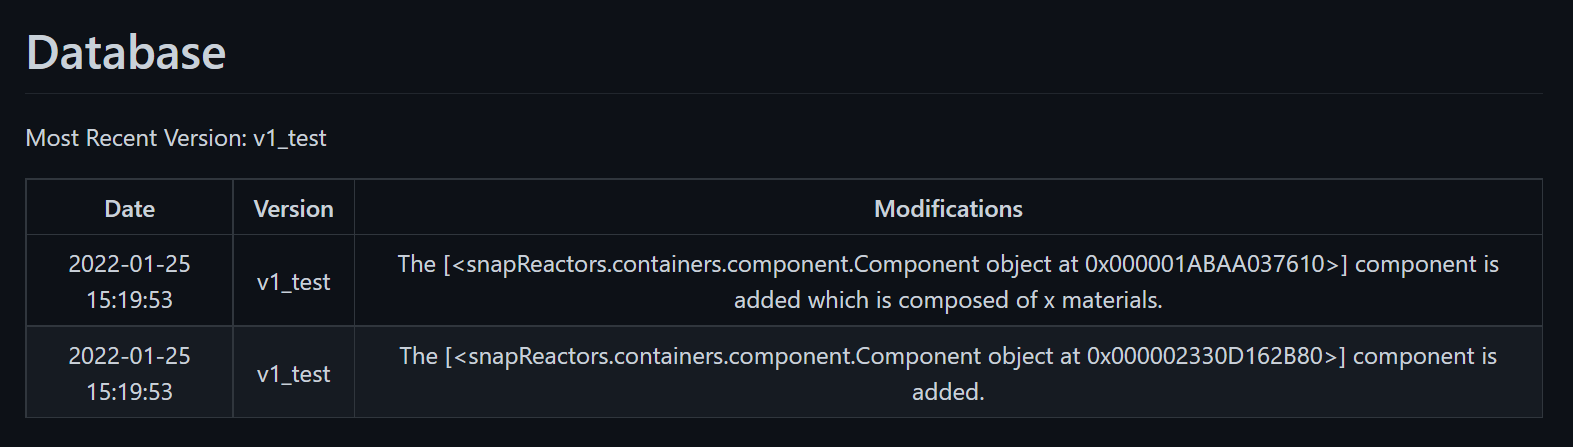
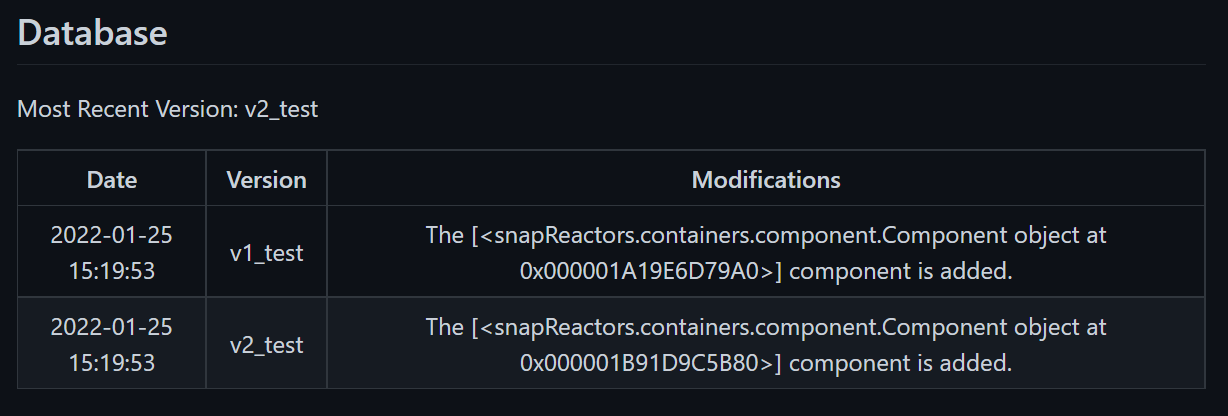
[DOC] Update to docstring in database.py
Slight update to docstring in database.py as well new .png image and new .rst file for docs\Manual\database_cont.rst

diff --git a/snapReactors/library/database.py b/snapReactors/library/database.py
@@ -25,19 +25,6 @@ import h5py as h5
 import sympy as sp
 
 import numpy as np
-import fileinput
-
-
-
-"""
-TODO: 
-    DONE - 1. Enum Types support through HDf5
-    DONE - 2. Version, Date, Modification Integration into hdf5 file itself
-    3. Markdown file that updates with the Version, date, modications (Sam)
-    4. Update the manual in documentation to give small demonstration (Sam)
-        (basically whats in workstation.py)
-
-"""
 
 
 class Database:

diff --git a/docs/Manual/database_cont.rst b/docs/Manual/database_cont.rst
@@ -13,8 +13,8 @@ Database Container
 -  Markdown files automatically updated as modifications are made with a
    description of what modifications were made.
 
-Code:
------
+Code
+----
 
 .. code:: ipython3
 
@@ -65,7 +65,7 @@ are taken:
 
 
 .. parsed-literal::
-    [<snapReactors.containers.materials.Material object at 0x0000024551B33460>, <snapReactors.containers.materials.Material object at 0x0000024551B33520>]
+    [<snapReactors.containers.materials.Material object at 0x000001B7E0C9C280>, <snapReactors.containers.materials.Material object at 0x000001B7E0C9CD90>]
     	 - c1 : <HDF5 group "/c1" (3 members)>
     		 - id : <HDF5 dataset "id": shape (), type "|O">
     b'c1'
@@ -387,7 +387,7 @@ etc).
 
 .. parsed-literal::
 
-    {'filePath': 'example.hdf5', 'version': 'v0.2.0', 'date': '2022-01-31 15:32:13', 'reactors': [], 'components': [<snapReactors.containers.component.Component object at 0x000002454E1B7250>]}
+    {'filePath': 'example.hdf5', 'version': 'v0.2.0', 'date': '2022-01-31 15:32:13', 'reactors': [], 'components': [<snapReactors.containers.component.Component object at 0x000001B7DD23F0D0>]}
     
 
 Markdown file updates

diff --git a/snapReactors/jupyter_notebooks/Database.md b/snapReactors/jupyter_notebooks/Database.md
@@ -6,6 +6,5 @@ Most Recent Version: v0.1.0
 
 |Date|Version|Modifications|
 | :---: | :---: | :---: |
-|2022-01-25 15:19:53|v1_test |The [<snapReactors.containers.component.Component object at 0x000001ABAA037610>] component is added which is composed of x materials.|
-|2022-01-25 15:19:53|v1_test |The [<snapReactors.containers.component.Component object at 0x000002330D162B80>] component is added.|
-|2022-01-31 15:32:13|v0.1.0|The [<snapReactors.containers.component.Component object at 0x00000245519AAAC0>] component is added.|
+|2022-01-25 15:19:53|v1_test |The [<snapReactors.containers.component.Component object at 0x00000202636C5B20>] component is added.|
+|2022-01-31 15:32:13|v0.1.0|The [<snapReactors.containers.component.Component object at 0x000001B7E0AED970>] component is added.|
